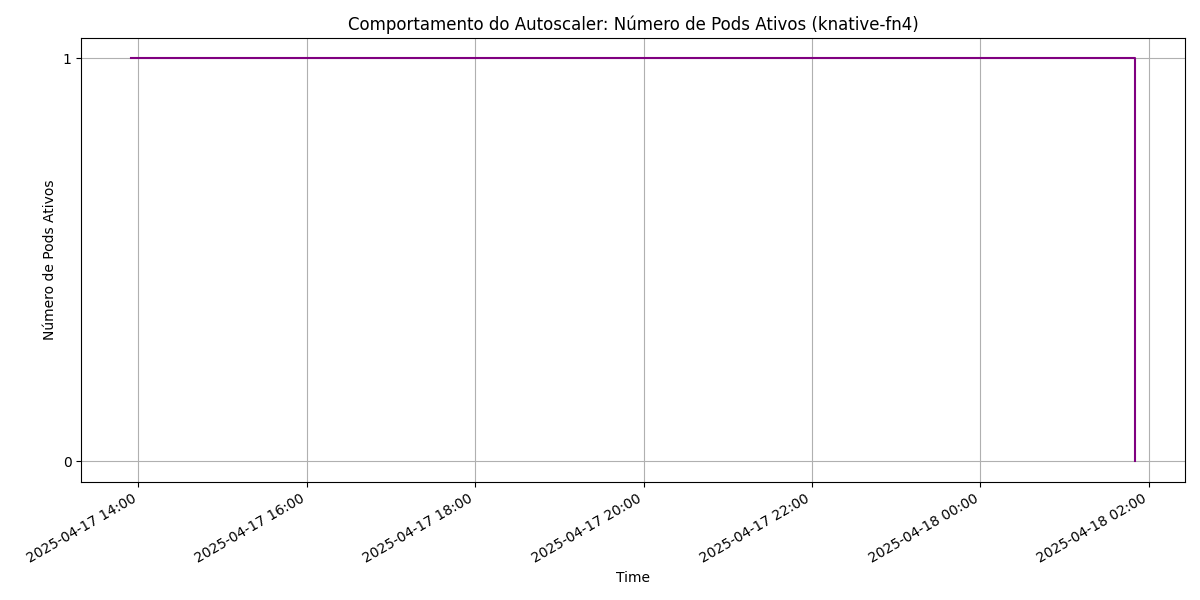
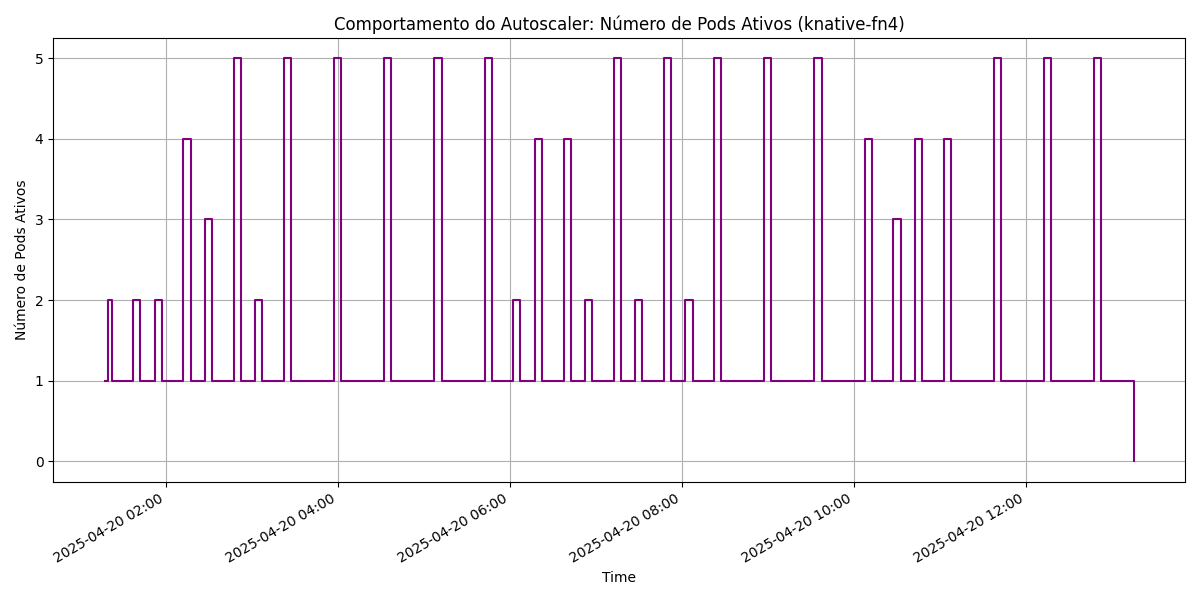
3 graphs of the yo-yo attack done + yo yo attack para 20 minutos

diff --git a/automation/graph/graphs_for_byoyo_attack/cpu_graph2.py b/automation/graph/graphs_for_byoyo_attack/cpu_graph2.py
@@ -1,0 +1,73 @@
+import json
+import matplotlib
+# Set Matplotlib to use a non-interactive backend since there's no GUI
+matplotlib.use('Agg')
+import matplotlib.pyplot as plt
+from datetime import datetime
+from matplotlib.dates import DateFormatter
+
+# Em vez de aceitar um link do OpenCost API, ele aceita um ficheiro .json com exatamente a mesma informacao da API. 
+# A diferenca e que agora se passar mt tempo, com o fichiero os dados n mudam.
+
+# Load data from a local JSON file instead of fetching from a URL
+with open('logs_yoyo-attack.json', 'r') as f:
+    data = json.load(f)
+
+# Filter pods starting with "knative-fn4-"
+knative_pods = {}
+for pod_name, pod_data in data["data"][0].items():
+    if pod_name.startswith("knative-fn4-"):
+        knative_pods[pod_name] = pod_data
+
+# Parse pod data: start time, end time, CPU usage, and request
+pod_intervals = []
+for pod_name, pod_data in knative_pods.items():
+    start_str = pod_data["start"]
+    end_str = pod_data["end"]
+    # Convert ISO 8601 strings to datetime objects
+    start = datetime.fromisoformat(start_str.replace("Z", "+00:00"))
+    end = datetime.fromisoformat(end_str.replace("Z", "+00:00"))
+    usage = pod_data["cpuCoreUsageAverage"]
+    request = pod_data["cpuCoreRequestAverage"]
+    pod_intervals.append((start, end, usage, request))
+
+# Collect all unique start and end times and sort them
+time_points = sorted(set([interval[0] for interval in pod_intervals] + 
+                         [interval[1] for interval in pod_intervals]))
+
+# Calculate CPU usage percentage for each time interval
+x_values = []
+y_values = []
+for i in range(len(time_points) - 1):
+    t_start = time_points[i]
+    # Find pods active at t_start (start <= t_start < end)
+    active_pods = [pod for pod in pod_intervals if pod[0] <= t_start < pod[1]]
+    if active_pods:
+        total_usage = sum(pod[2] for pod in active_pods)
+        total_request = sum(pod[3] for pod in active_pods)
+        # Calculate percentage; set to 0 if total_request is 0
+        percentage = (total_usage / total_request) * 100 if total_request > 0 else 0
+    else:
+        percentage = 0  # No active pods in this interval
+    x_values.append(t_start)
+    y_values.append(percentage)
+
+# Add the final time point to complete the step plot
+x_values.append(time_points[-1])
+y_values.append(y_values[-1])  # Extend the last percentage
+
+# Create the step plot
+plt.figure(figsize=(12, 6))  # Set figure size
+plt.step(x_values, y_values, where='post')  # 'post' means value applies after each x point
+plt.xlabel('Time')
+plt.ylabel('CPU Usage Percentage (%)')
+plt.title('CPU Usage Percentage Over Time for knative-fn4 Pods')
+plt.grid(True)  # Add a grid for readability
+
+# Format the x-axis to show dates and times nicely
+plt.gca().xaxis.set_major_formatter(DateFormatter('%Y-%m-%d %H:%M'))
+plt.gcf().autofmt_xdate()  # Rotate date labels for better visibility
+
+# Save the plot to a file
+plt.savefig('images/cpu_usage2.png')
+plt.close()  # Close the figure to free memory

diff --git a/automation/graph/graphs_for_byoyo_attack/pods2.py b/automation/graph/graphs_for_byoyo_attack/pods2.py
@@ -1,33 +1,35 @@
-import requests
+import json
 import matplotlib
 matplotlib.use('Agg')
 import matplotlib.pyplot as plt
 from datetime import datetime
 from matplotlib.dates import DateFormatter
 
-# API do OpenCost
-url = "http://10.255.32.113:32079/model/allocation?window=15h&aggregate=pod"
-response = requests.get(url)
-data = response.json()
+# Path to your local JSON file (same structure as the API response)
+input_file = "logs_yoyo-attack.json"
 
-# Filtra pods cujo nome começa com "knative-fn4-"
+# Load JSON data from file instead of fetching via HTTP
+with open(input_file, 'r') as f:
+    data = json.load(f)
+
+# Filter pods whose name starts with "knative-fn4-"
 knative_pods = {}
 for pod_name, pod_data in data["data"][0].items():
     if pod_name.startswith("knative-fn4-"):
         knative_pods[pod_name] = pod_data
 
-# Extrai apenas os timestamps de start e end
+# Extract intervals: start and end timestamps
 pod_intervals = []
 for pod_name, pod_data in knative_pods.items():
     start = datetime.fromisoformat(pod_data["start"].replace("Z", "+00:00"))
     end = datetime.fromisoformat(pod_data["end"].replace("Z", "+00:00"))
     pod_intervals.append((start, end))
 
-# Obtém todos os pontos de tempo únicos (início e fim)
+# Gather all unique time points (start and end) and sort them
 time_points = sorted(set([interval[0] for interval in pod_intervals] + 
-                         [interval[1] for interval in pod_intervals]))
+                           [interval[1] for interval in pod_intervals]))
 
-# Para cada ponto de tempo, conta quantos pods estão ativos
+# Count active pods at each time point
 x_values = []
 pod_counts = []
 for t in time_points:
@@ -35,7 +37,7 @@ for t in time_points:
     x_values.append(t)
     pod_counts.append(count)
 
-# Plota o gráfico do número de pods ativos
+# Plot the step chart for pod counts
 plt.figure(figsize=(12, 6))
 plt.step(x_values, pod_counts, where='post', color='purple')
 plt.xlabel('Time')
@@ -45,10 +47,9 @@ plt.gca().xaxis.set_major_formatter(DateFormatter('%Y-%m-%d %H:%M'))
 plt.gcf().autofmt_xdate()
 plt.grid(True)
 
-# Definir valores discretos para o eixo Y
-plt.yticks(range(0, max(pod_counts)+1))
+# Set discrete values for Y-axis\plt.yticks(range(0, max(pod_counts) + 1))
 
 plt.tight_layout()
-plt.savefig('images/pod_count.png')
+plt.savefig('images/pod_count2.png')
 plt.close()
 print("Gráfico 'pod_count.png' salvo.")

diff --git a/automation/graph/graphs_for_byoyo_attack/delta_cost2.py b/automation/graph/graphs_for_byoyo_attack/delta_cost2.py
@@ -1,0 +1,68 @@
+import json
+import matplotlib
+matplotlib.use('Agg')
+import matplotlib.pyplot as plt
+from datetime import datetime
+from matplotlib.dates import DateFormatter
+
+# Path to your local JSON file (same structure as the API response)
+input_file = "logs_yoyo-attack.json"
+
+# Load JSON data from file instead of fetching via HTTP
+with open(input_file, 'r') as f:
+    data = json.load(f)
+
+# Filter pods whose name starts with "knative-fn4-"
+knative_pods = {}
+for pod_name, pod_data in data["data"][0].items():
+    if pod_name.startswith("knative-fn4-"):
+        knative_pods[pod_name] = pod_data
+
+# Extract intervals: start, end, totalCost
+pod_intervals = []
+for pod_name, pod_data in knative_pods.items():
+    start_str = pod_data["start"]
+    end_str = pod_data["end"]
+    # Parse ISO timestamps
+    start = datetime.fromisoformat(start_str.replace("Z", "+00:00"))
+    end = datetime.fromisoformat(end_str.replace("Z", "+00:00"))
+    total_cost = pod_data["totalCost"]
+    pod_intervals.append((start, end, total_cost))
+
+# Gather all unique time points (start and end) and sort them
+time_points = sorted(set([interval[0] for interval in pod_intervals] + 
+                           [interval[1] for interval in pod_intervals]))
+
+# Sum the cost of active pods at each time point
+x_values = []
+cost_sums = []
+for t in time_points:
+    active_cost = sum(interval[2] for interval in pod_intervals if interval[0] <= t < interval[1])
+    x_values.append(t)
+    cost_sums.append(active_cost)
+
+# Compute cost change rate (delta per minute) between consecutive points
+x_delta = []
+cost_rate = []
+for i in range(len(x_values) - 1):
+    t1 = x_values[i]
+    t2 = x_values[i + 1]
+    dt_minutes = (t2 - t1).total_seconds() / 60.0
+    delta_cost = cost_sums[i + 1] - cost_sums[i]
+    rate = delta_cost / dt_minutes if dt_minutes > 0 else 0
+    x_delta.append(t1)
+    cost_rate.append(rate)
+
+# Plot the step chart
+plt.figure(figsize=(12, 6))
+plt.step(x_delta, cost_rate, where='post', color='red')
+plt.xlabel('Time')
+plt.ylabel('Cost Rate ($/min)')
+plt.title('Variação do Custo (Delta do totalCost) ao Longo do Tempo para knative-fn4')
+plt.gca().xaxis.set_major_formatter(DateFormatter('%Y-%m-%d %H:%M'))
+plt.gcf().autofmt_xdate()
+plt.grid(True)
+plt.tight_layout()
+plt.savefig('images/cost_rate2.png')
+plt.close()
+print("Gráfico 'cost_rate.png' salvo.")

diff --git a/automation/results/scripts_attacking_baseline/yoyo_attack_responsetime.py b/automation/results/scripts_attacking_baseline/yoyo_attack_responsetime.py
@@ -1,3 +1,4 @@
+#!/usr/bin/env python3
 import sys
 from datetime import datetime
 import numpy as np
@@ -39,9 +40,14 @@ def main(filepath):
     # Fill under
     ax.fill_between(times_fine, rt_fine, 0, color='tab:purple', alpha=0.5)
 
+    # Legend with max RT
+    max_rt = resp_times.max()
+    ax.plot([], [], ' ', label=f"Max Response Time = {max_rt:.3f} s")
+    ax.legend(loc='upper right', handlelength=0)
+
     # Axes styling
     ax.set_ylabel('Response Time [s]')
-    ax.set_ylim(0.00, resp_times.max() * 1.05)
+    ax.set_ylim(0.00, max_rt * 1.05)
     ax.yaxis.grid(True)
 
     # Hourly ticks, HH:MM labels
@@ -59,6 +65,9 @@ def main(filepath):
     end_hour = datetime(times[-1].year, times[-1].month, times[-1].day, times[-1].hour, 0)
     ax.set_xlim(start_hour, end_hour)
 
+
+
+    
     fig.autofmt_xdate()
     fig.tight_layout(pad=1.0)
     outname = 'baseline_response_time.png'

diff --git a/automation/attack/yo-yoattack.py b/automation/attack/yo-yoattack.py
@@ -8,7 +8,7 @@ TARGET_URL = "http://knative-fn4.default.127.0.0.1.nip.io/fib"
 NORMAL_CONCURRENCY = 0
 ATTACK_CONCURRENCY = 245            # Pod da scale aos 51, mas aumentar este valor mais so para ter a certez que da scale up
 ON_ATTACK_DURATION = 160            # 160 segundos foi o valor maximo ate um Pod começar a terminar antes do ataque terminar.
-OFF_ATTACK_DURATION = 200           # 15 minutos de pausa 
+OFF_ATTACK_DURATION = 1200          # 20 minutos updated minutos de pausa 
 RUN_DURATION = 12 * 60 * 60         # Total run time in seconds (12 hours)
 CONNECTION_TIMEOUT = aiohttp.ClientTimeout(total=10)
 LOG_FILE = "logs/attack_metrics.log"

diff --git a/automation/cost/cost.py b/automation/cost/cost.py
@@ -1,7 +1,7 @@
 import requests
 
 # Fetch data from OpenCost API
-url = "http://10.255.32.113:32079/model/allocation?window=1d&aggregate=pod"
+url = "http://10.255.32.113:32079/model/allocation?window=15h&aggregate=pod"
 response = requests.get(url)
 data = response.json()
 
